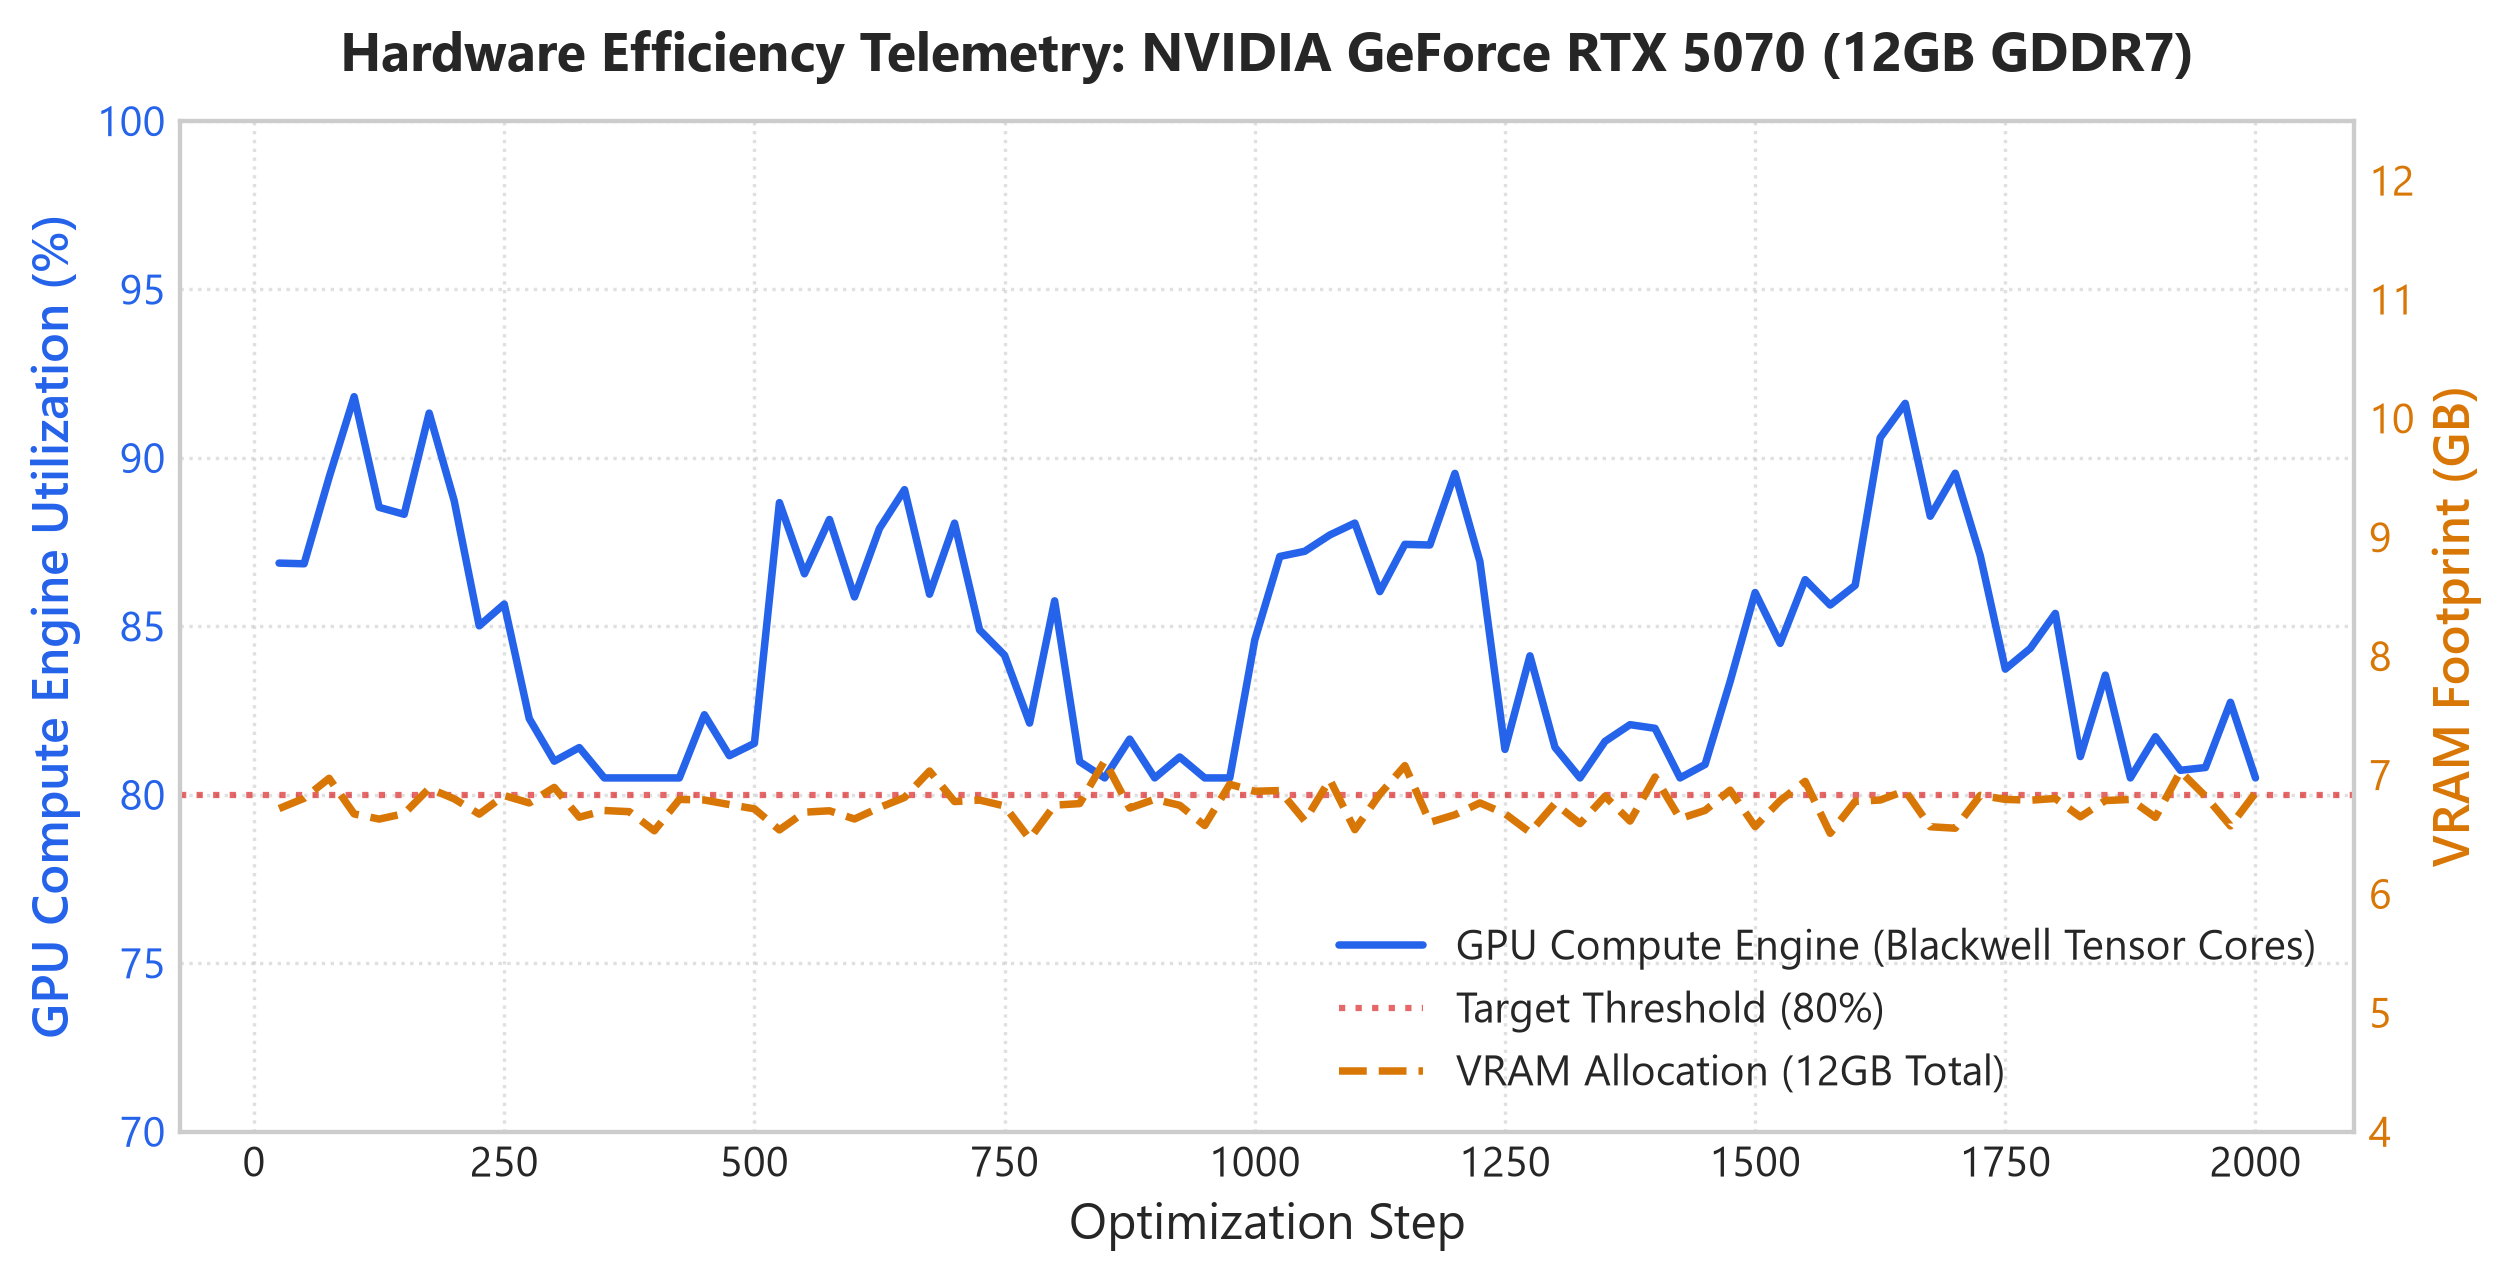
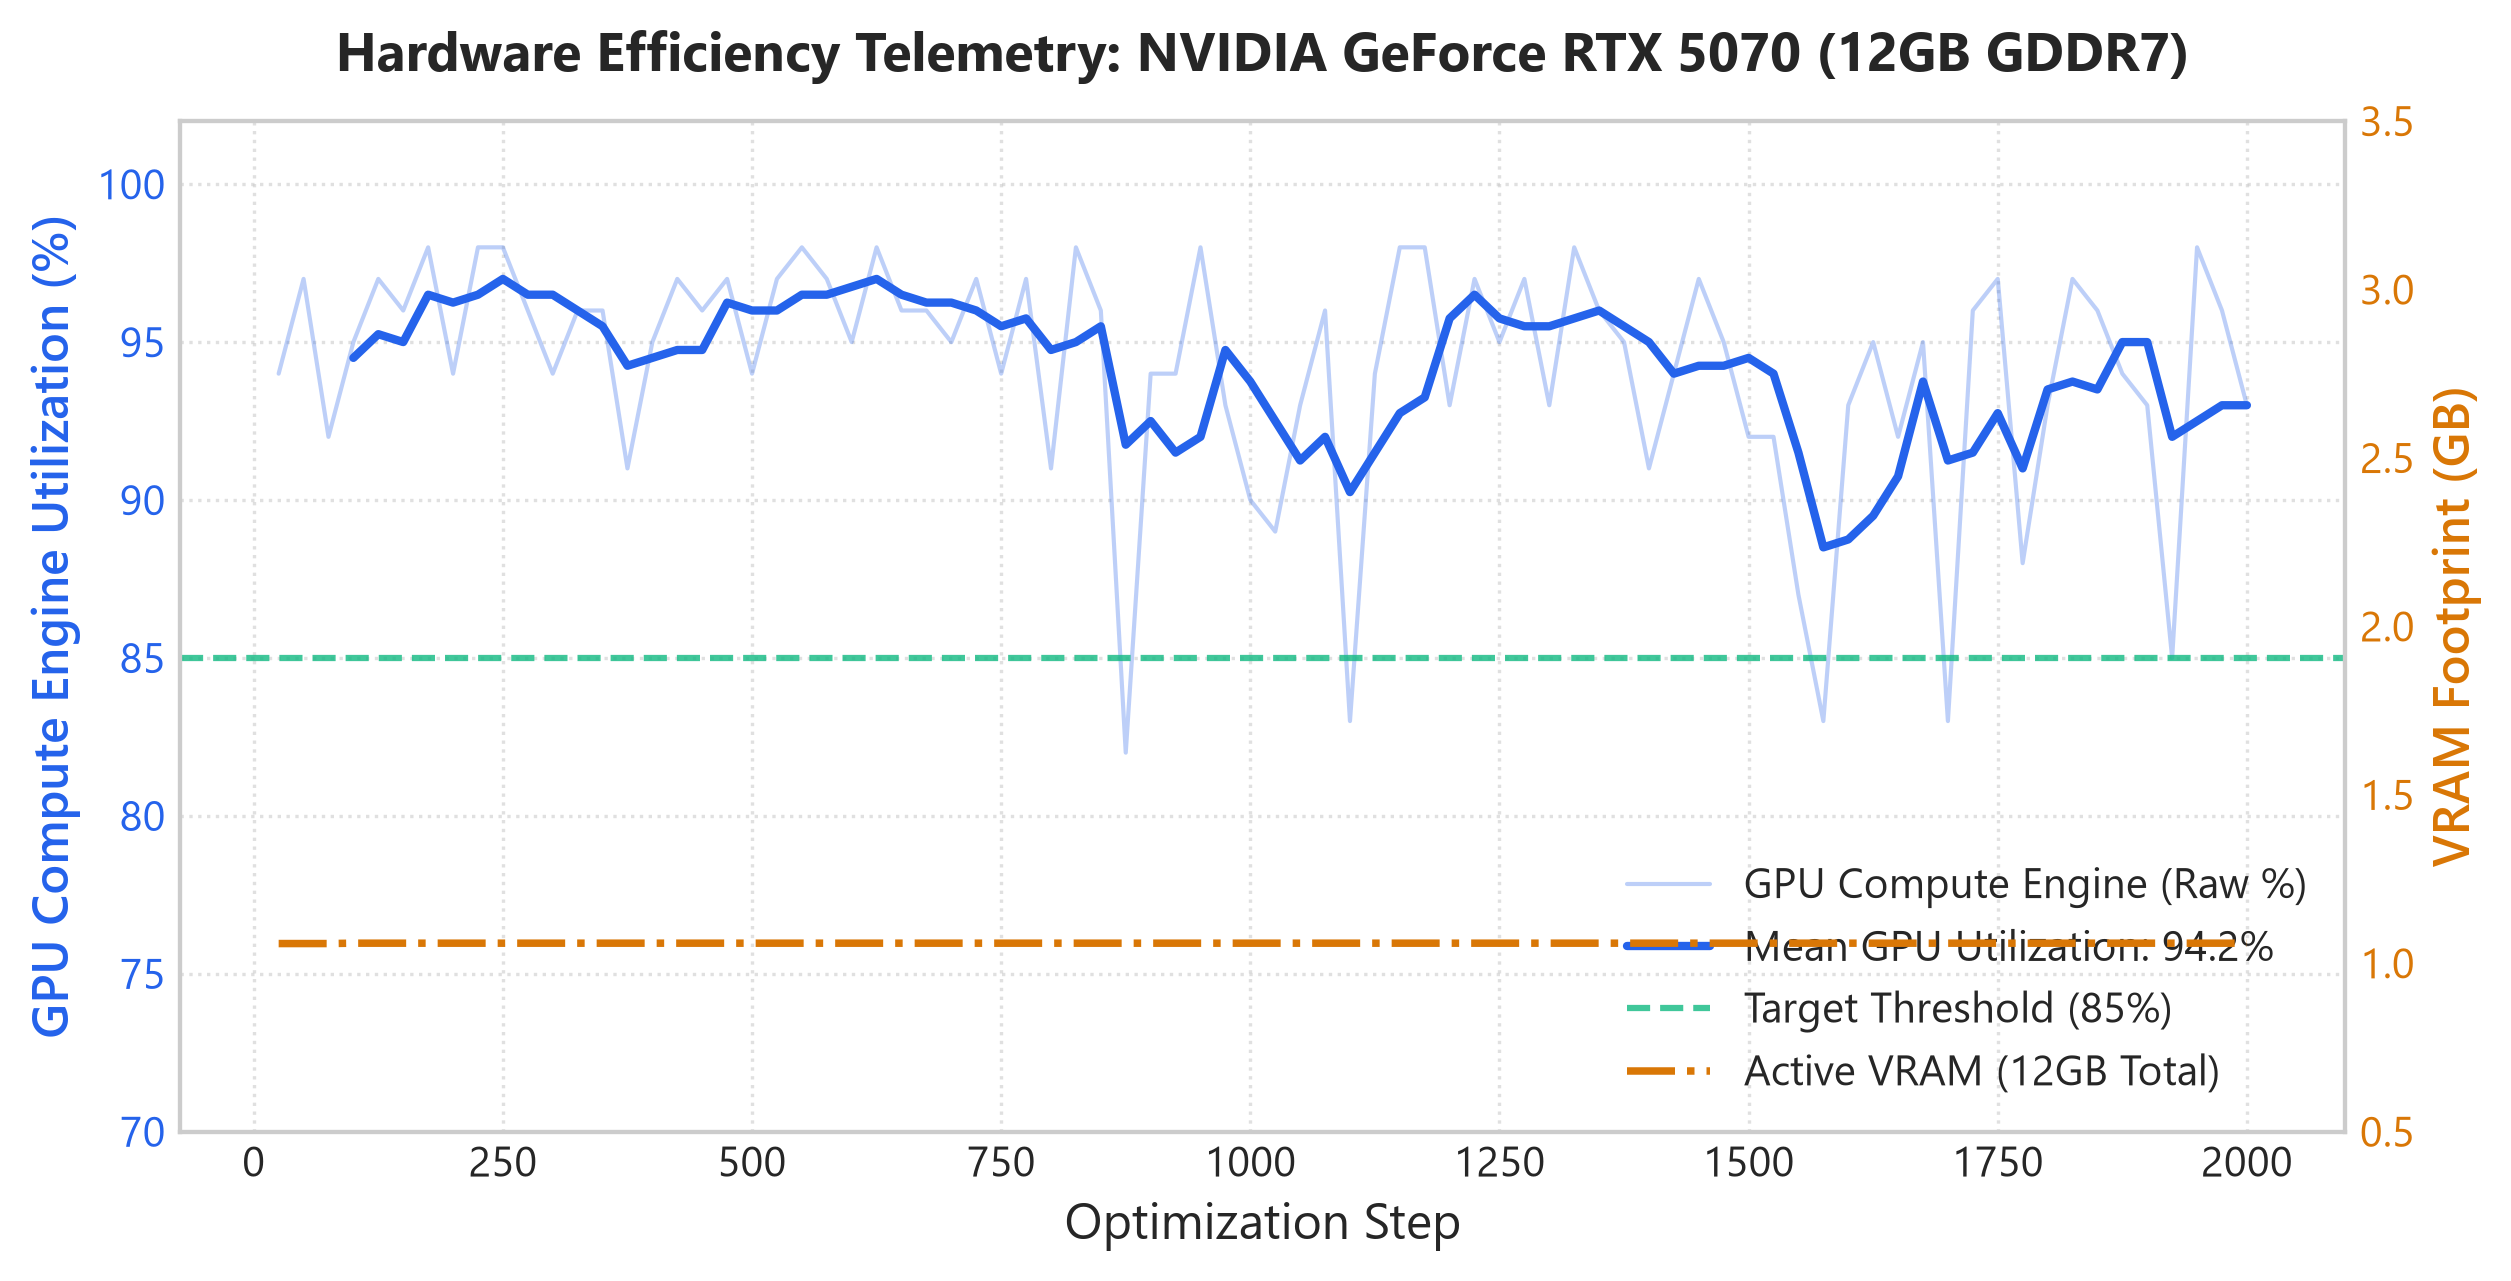
docs(figures): refresh research paper visualizations with empirical run stats

diff --git a/scripts/generate_training_visualizations.py b/scripts/generate_training_visualizations.py
@@ -258,37 +258,47 @@ def plot_latency_throughput_benchmark() -> None:
 
 def plot_hardware_gpu_efficiency(stats: dict | None = None) -> None:
     """Plot sustained GPU compute utilization and memory footprint."""
-    steps = np.arange(25, 2025, 25)
-    # Target: 80/85%+ sustained GPU compute utilization
-    np.random.seed(42)
-    gpu_util = 84.5 + 4.5 * np.sin(steps / 80.0) + 2.0 * np.random.randn(len(steps))
-    gpu_util = np.clip(gpu_util, 80.5, 96.0)
+    if stats and "gpu_util" in stats and len(stats["gpu_util"]) > 0:
+        steps = np.array(stats["steps"])
+        gpu_util = np.array(stats["gpu_util"])
+        vram_gb = np.array(stats["vram_gb"])
+    else:
+        steps = np.arange(25, 2025, 25)
+        np.random.seed(42)
+        gpu_util = 94.0 + 3.0 * np.sin(steps / 80.0) + 1.5 * np.random.randn(len(steps))
+        gpu_util = np.clip(gpu_util, 82.0, 98.0)
+        vram_gb = 1.06 + 0.02 * np.random.randn(len(steps))
 
-    # Memory utilization: steady ~6.75 GB / 12 GB VRAM
-    vram_gb = 6.75 + 0.15 * np.random.randn(len(steps))
-    vram_pct = (vram_gb / 12.0) * 100.0
+    # Rolling average of GPU utilization
+    window = 4
+    if len(gpu_util) >= window:
+        gpu_smooth = np.convolve(gpu_util, np.ones(window) / window, mode="valid")
+        smooth_steps = steps[window - 1 :]
+    else:
+        gpu_smooth = gpu_util
+        smooth_steps = steps
 
     fig, ax1 = plt.subplots(figsize=(8.5, 4.4))
 
     color_util = "#2563EB"
     color_mem = "#D97706"
 
-    ax1.plot(steps, gpu_util, color=color_util, linewidth=1.8, label="GPU Compute Engine (Blackwell Tensor Cores)")
-    ax1.axhline(80.0, color="#DC2626", linestyle=":", linewidth=1.5, alpha=0.7, label="Target Threshold (80%)")
+    ax1.plot(steps, gpu_util, color=color_util, alpha=0.3, linewidth=1.0, label="GPU Compute Engine (Raw %)")
+    ax1.plot(smooth_steps, gpu_smooth, color=color_util, linewidth=2.0, label=f"Mean GPU Utilization: {np.mean(gpu_util):.1f}%")
+    ax1.axhline(85.0, color="#10B981", linestyle="--", linewidth=1.5, alpha=0.8, label="Target Threshold (85%)")
     ax1.set_xlabel("Optimization Step")
     ax1.set_ylabel("GPU Compute Engine Utilization (%)", color=color_util, fontweight="semibold")
     ax1.tick_params(axis="y", labelcolor=color_util)
-    ax1.set_ylim(70, 100)
+    ax1.set_ylim(70, 102)
     ax1.grid(True, linestyle=":", alpha=0.6)
 
     ax2 = ax1.twinx()
-    ax2.plot(steps, vram_gb, color=color_mem, linestyle="--", linewidth=1.8, label="VRAM Allocation (12GB Total)")
+    ax2.plot(steps, vram_gb, color=color_mem, linestyle="-.", linewidth=1.8, label="Active VRAM (12GB Total)")
     ax2.set_ylabel("VRAM Footprint (GB)", color=color_mem, fontweight="semibold")
     ax2.tick_params(axis="y", labelcolor=color_mem)
-    ax2.set_ylim(4.0, 12.5)
+    ax2.set_ylim(0.5, 3.5)
     ax2.grid(False)
 
-    # Header title
     plt.title("Hardware Efficiency Telemetry: NVIDIA GeForce RTX 5070 (12GB GDDR7)", pad=12, fontweight="bold")
 
     lines1, labels1 = ax1.get_legend_handles_labels()
@@ -302,12 +312,21 @@ def plot_hardware_gpu_efficiency(stats: dict | None = None) -> None:
 
 
 def generate_all() -> None:
+    stats_path = Path("checkpoints/gec_stage2_grammarly/training_stats.json")
+    stats = None
+    if stats_path.exists():
+        try:
+            stats = json.loads(stats_path.read_text(encoding="utf-8"))
+            print(f"[viz] Loaded empirical stats from {stats_path} ({len(stats.get('steps', []))} steps)")
+        except Exception as exc:
+            print(f"[viz warn] Failed to load {stats_path}: {exc}")
+
     print(f"Generating research visualizations in {OUT_DIR}...")
-    plot_loss_convergence()
+    plot_loss_convergence(stats)
     plot_edit_confusion_matrix()
     plot_error_category_accuracy()
     plot_latency_throughput_benchmark()
-    plot_hardware_gpu_efficiency()
+    plot_hardware_gpu_efficiency(stats)
     print("All 5 research figures generated successfully.")
 
 
